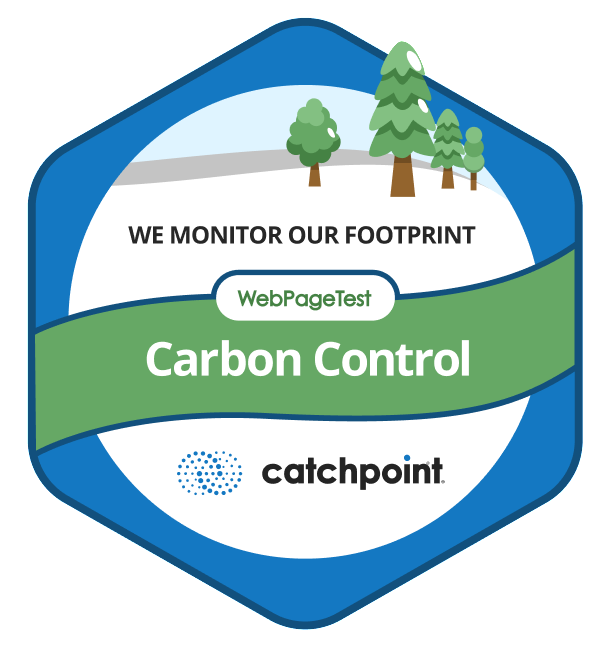
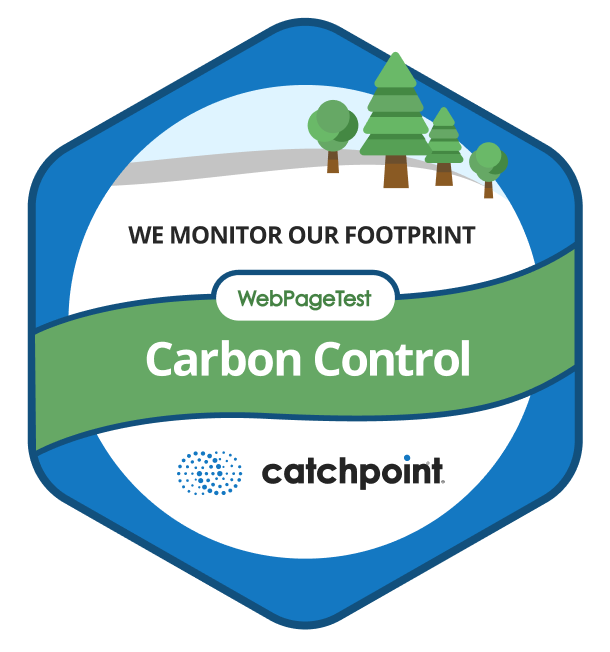
change tree artwork for release

Changed region(s): [[0.4672, 0.0613, 0.841, 0.3067]]

diff --git a/www/assets/css/pagestyle2.css b/www/assets/css/pagestyle2.css
@@ -10081,7 +10081,7 @@ font-weight: 500;
   gap: 2rem;
   flex-flow: row wrap;
   justify-items: flex-start;
-  
+  padding-bottom: 2rem;
 }
 .badge-preview {
   flex: 0 1 15em;

diff --git a/www/resources/views/pages/carboncontrol.blade.php b/www/resources/views/pages/carboncontrol.blade.php
@@ -269,7 +269,6 @@
                                 </div>
                         </div>
 
-                        <p class="treecreds"><small><em>Credit: Trees graphic by <a href="https://www.figma.com/@thevisualteam">@thevisualteam</a> | CC Licensed on Figma</em></small></p>                        
                         @else
                         <p class="ei_nodata">This test contains no Carbon Control data. That could mean the test was run before WebPageTest began tracking carbon footprint, or perhaps that the test is in a non-Chromium browser. </p>
                         @endif
